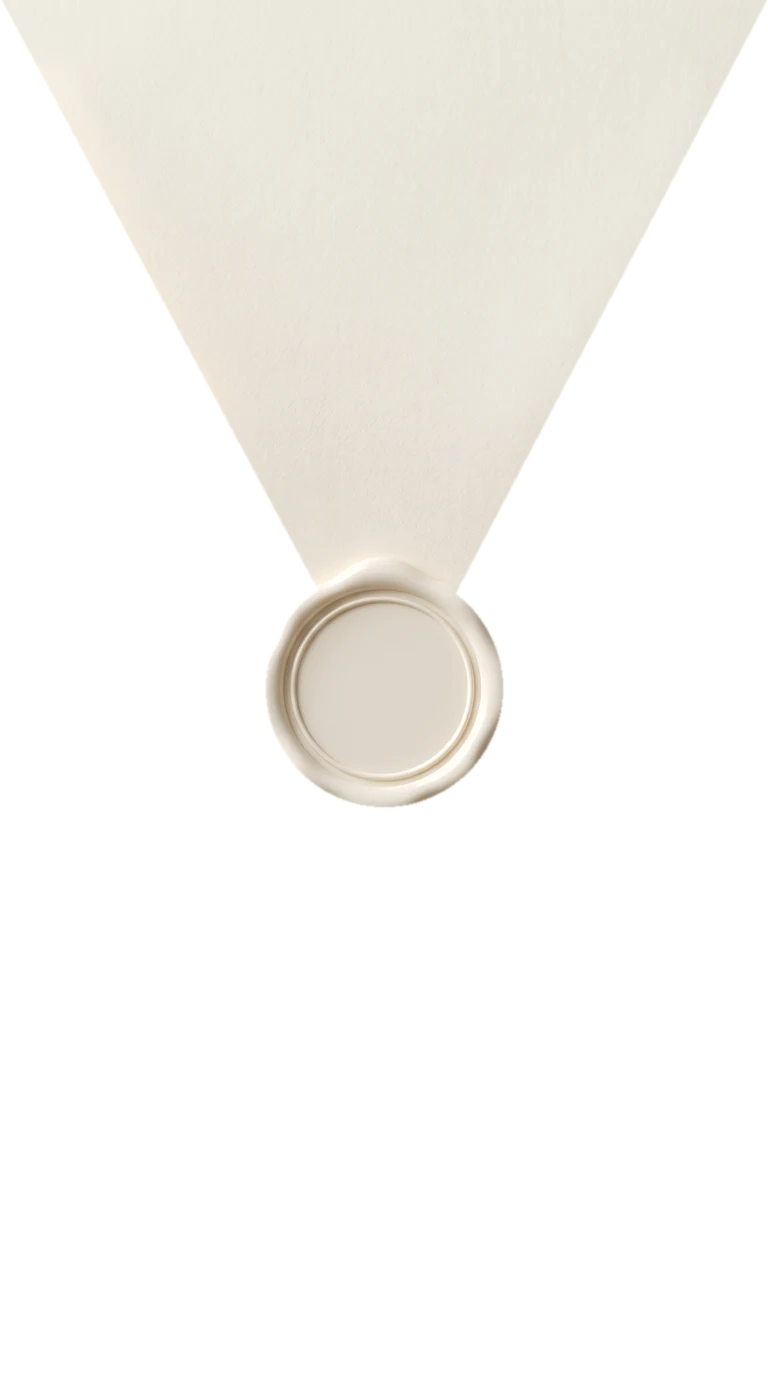
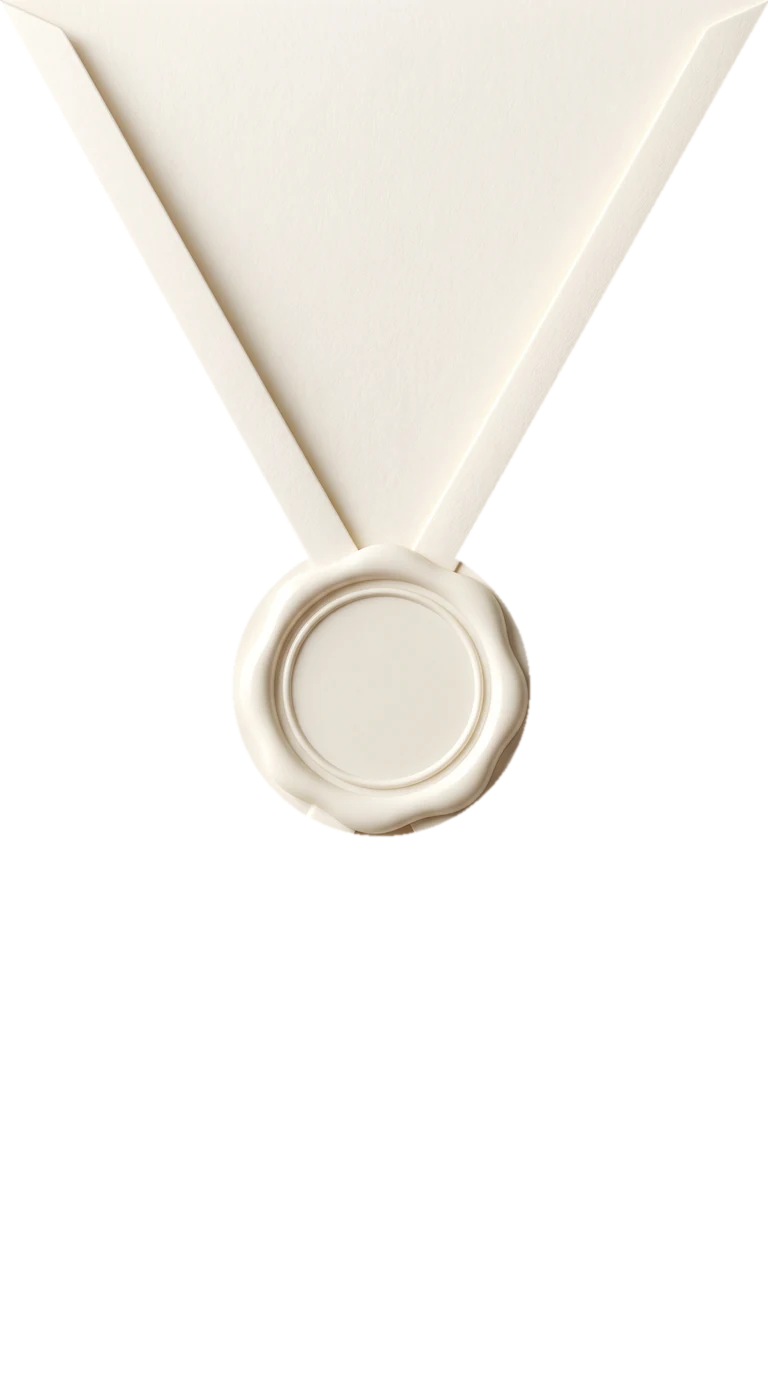
Sobre maestro nuevo de cuatro solapas, mas el eje medido

diff --git a/sobres/catalogo.js b/sobres/catalogo.js
@@ -188,13 +188,16 @@ window.SOBRES_INVITAME = {
      imagen: (50,5 % · 52,3 %). El lacre la tapa entera.
      ---------------------------------------------------------------------- */
   maestro: {
-    nombre:   "Maestro · marfil botánico, lacre liso (foto)",
+    nombre:   "Maestro · marfil botánico, cuatro solapas, lacre liso (foto)",
     poster:   "/sobres/sobre-maestro.jpg",
     solapa:   "/sobres/sobre-maestro-solapa.webp",
     color:    "#e8e2d8",
     apertura: "solapas",
     empalme:  "foto",
-    eje:      { x: 50.5, y: 52.3 }
+    /* dónde se cruzan las cuatro solapas (y dónde está el lacre), medido
+       sobre la foto: 381/768 y 687/1376. Se abre SÓLO la de arriba; las
+       otras tres se quedan y enmarcan la abertura. */
+    eje:      { x: 49.6, y: 49.9 }
   },
 
   'carta-toscana': {
